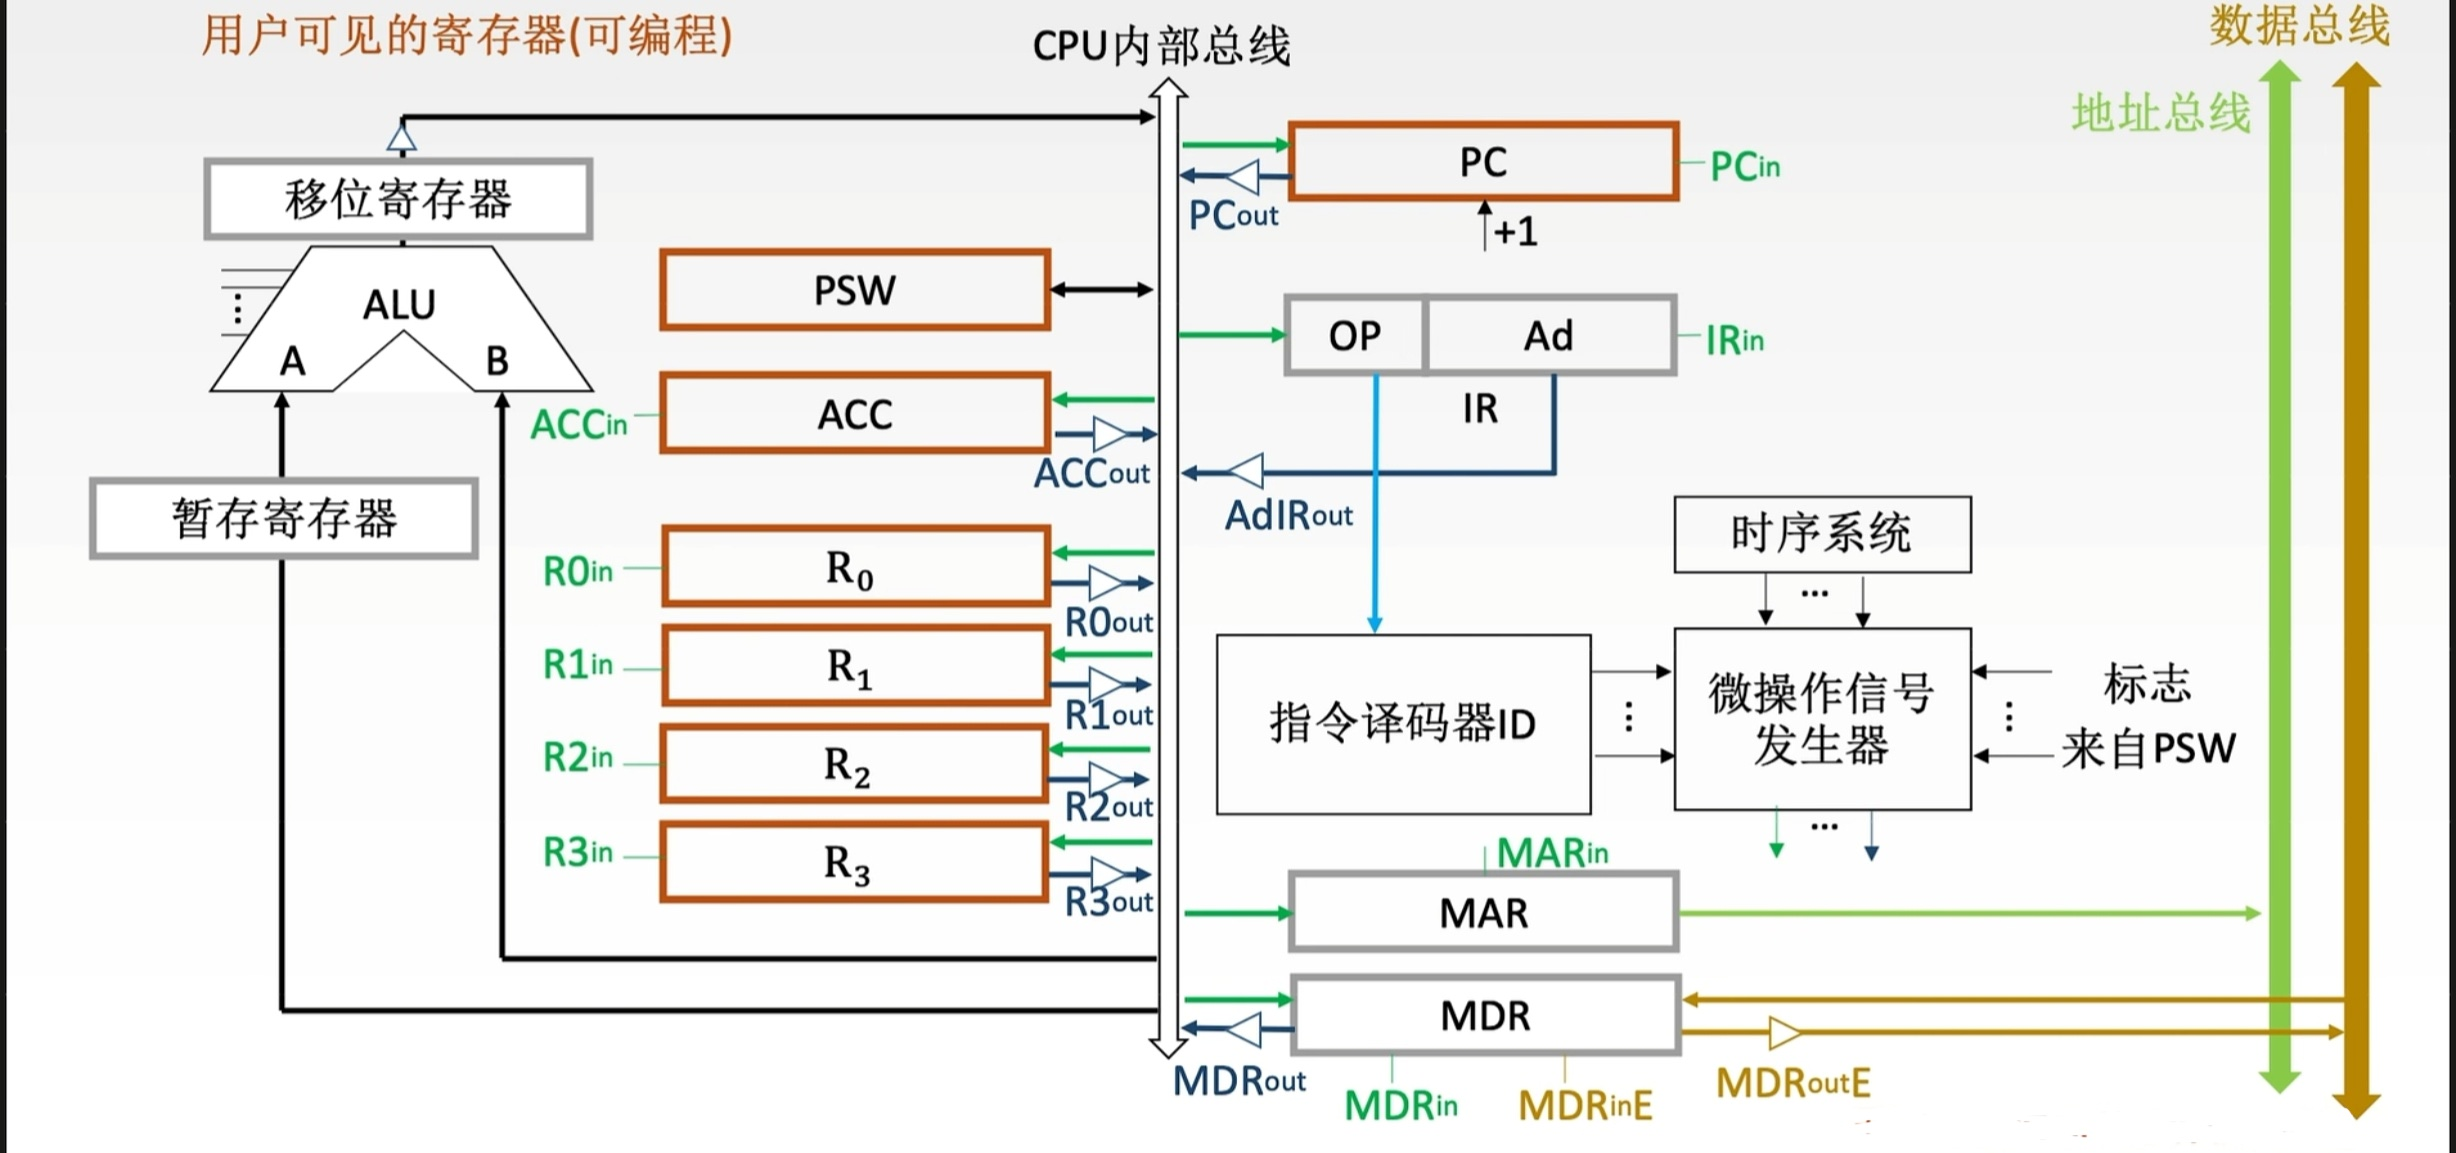
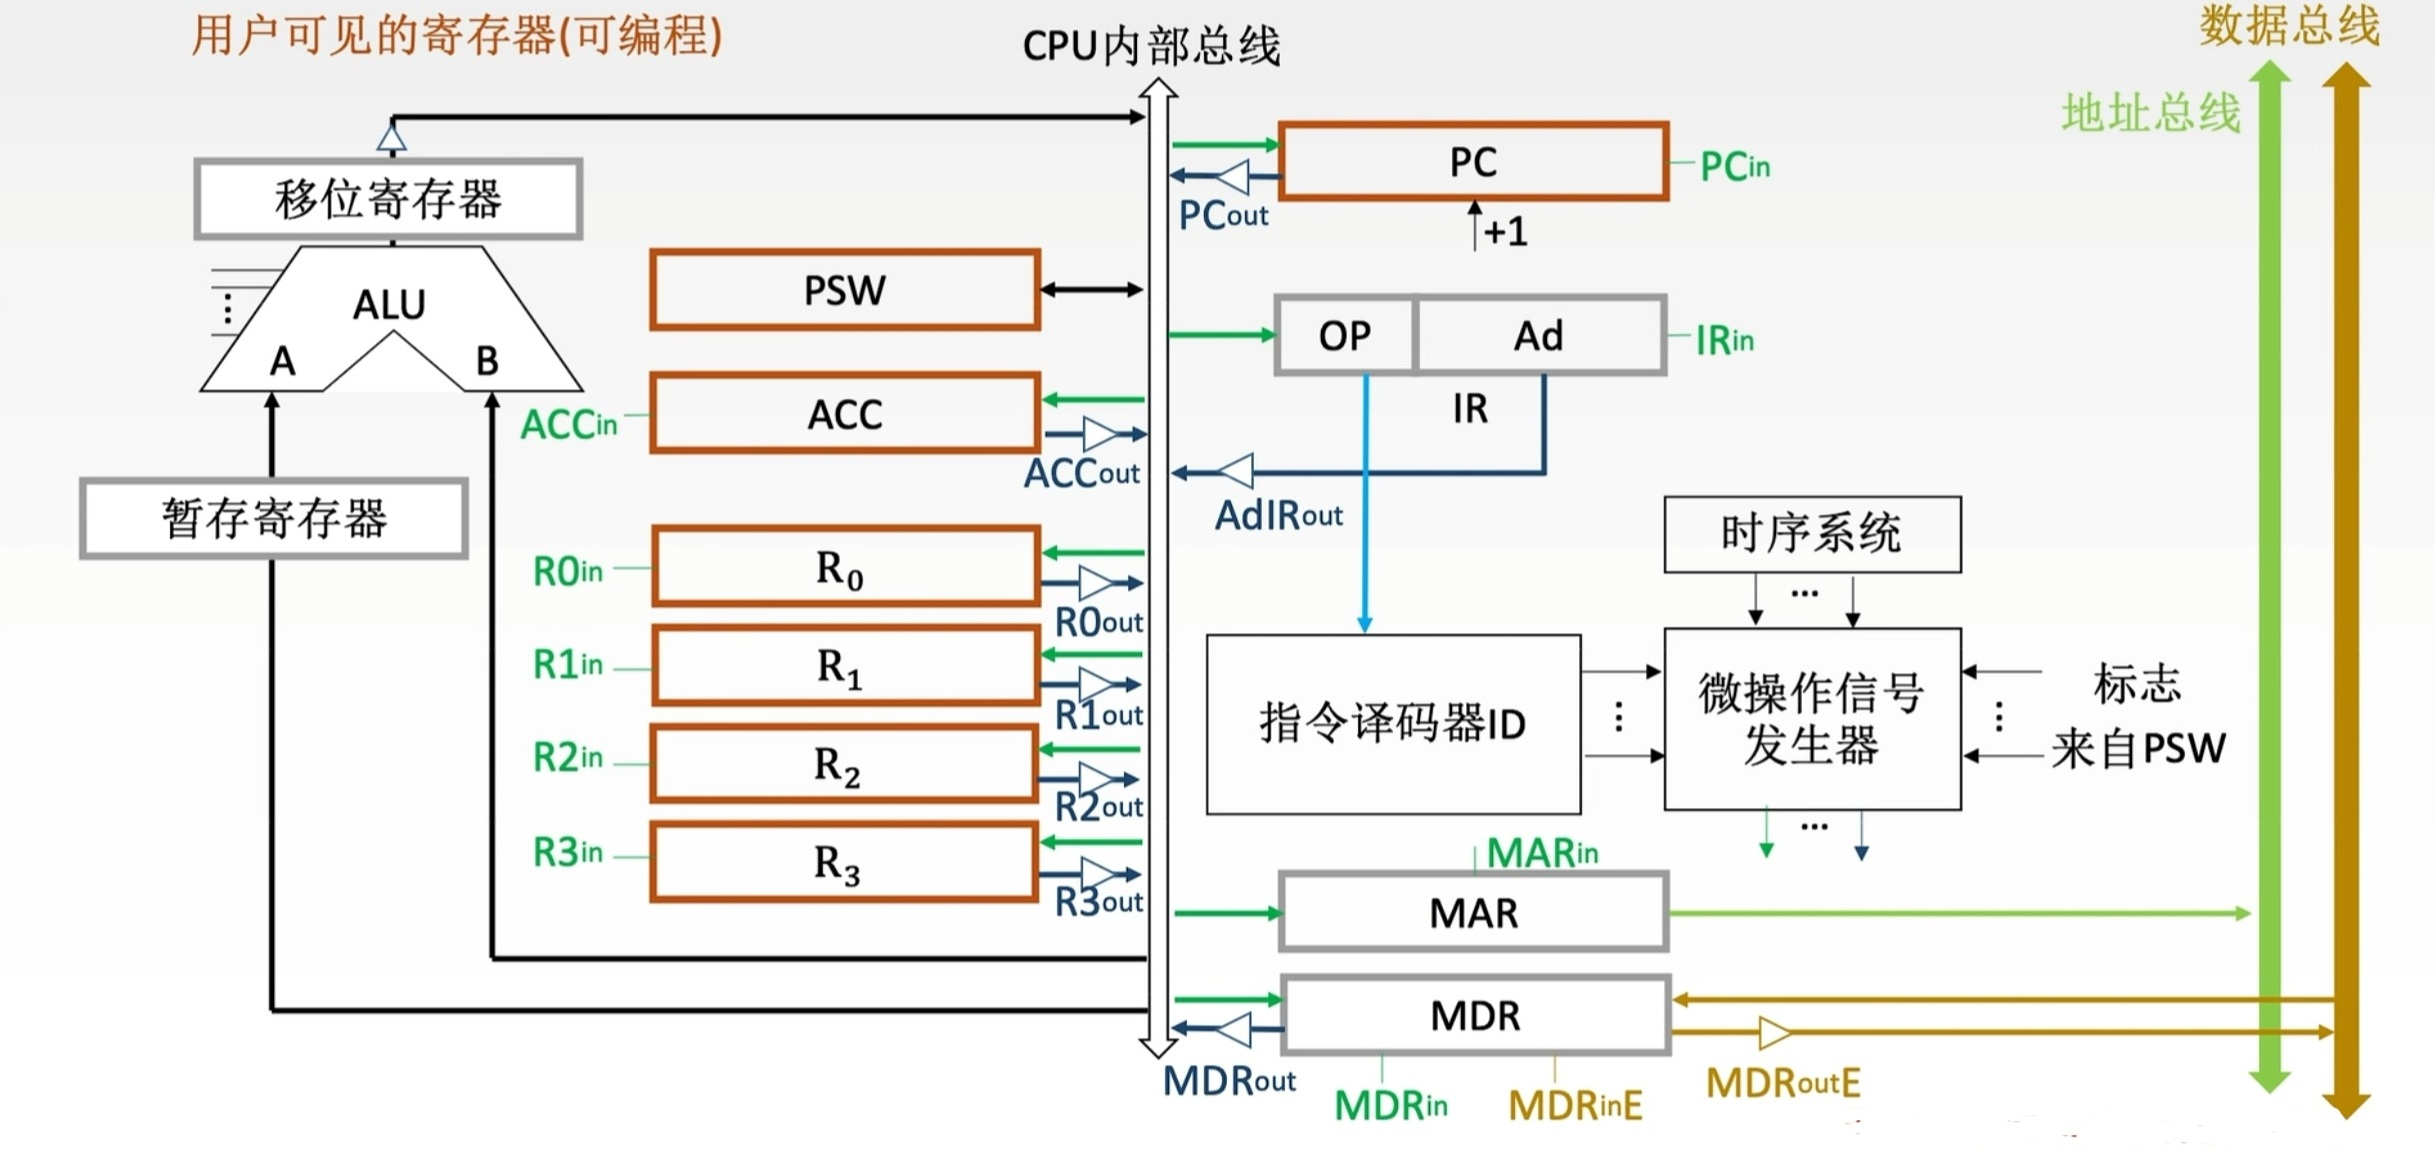
异常中断修改

diff --git a/408复习/计组/第五章-中央处理器.md b/408复习/计组/第五章-中央处理器.md
@@ -145,21 +145,34 @@ n个微命令就需要n位，微指令过长
 - 微程序入口地址，首地址
 - 条件转移
 # 5.5 异常中断
-## 中断基本概念
-- 内中断（也称异常、陷入）
-指令中断（trap指令）；硬件故障（缺页）、软件中断（除0）
-- 外中断（狭义中断）
-外设请求；人工干预
+## 异常和中断基本概念
+### 异常
+也称内中断，CPU内部中发生
+- 自陷（trap）
+预先安排好，指令==正常执行完==触发，处理完成后从==trap指令==下一条指令继续
+如断点测试、单步跟踪
+- 故障（fault）
+指令执行过程中发生
+可恢复的故障（如缺页），重新执行原指令；
+不可恢复的故障（如非法指令、除零），终止进程
+- 终止（abort）
+严重且不可恢复
+如控制器出错、存储器校验错、总线错误
+
+**故障**和**自陷**都是程序性异常（软件中断），**终止**和**中断**属于硬件中断
+### 中断
+也称外中断，一般为外设请求；人工干预
 
 关中断：不允许中断
 	非屏蔽中断：关中断时也被响应（掉电）
 	可屏蔽中断：相反
 开中断：允许
-## 工作流程
+## 中断工作流程
 ### *中断请求*
 每条指令结束==前==向接口发送查询信号，CPU响应是在指令执行结束时刻
 向CPU发送
 ### *中断响应*
+<p style="color:#80a2d3">对于异常，CPU无须响应</p>
 **中断判优**，按优先级处理多个中断信号
 硬件通过硬件排队器（像仲裁）；软件通过查询程序（比硬件慢）
 **优先级设置**
@@ -168,11 +181,11 @@ n个微命令就需要n位，微指令过长
 **指令**：保存原程序pc值（pc已+1）等
 1. ==关中断==
 2. 保存断点
-3. 引出中断服务程序（取程序入口地址并传送给pc）
-中断服务程序返回的是指令执行结束地址
+3. 引出中断服务程序（取程序入口地址并传送给pc），整个过程==硬件实现==
+中断服务程序返回的是下一条指令地址，后续处理由内核软件实现
 #### 单重中断
 **中断服务程序**：
-1. 保护现场，保存寄存器的内容（通用、ACC、PSW）
+1. 保护现场，保存寄存器的内容（通用、ACC）
 2. 中断服务
 3. 恢复现场
 4. 开中断，中断返回

diff --git a/408复习/计组/第七章-输入输出.md b/408复习/计组/第七章-输入输出.md
@@ -1,10 +1,9 @@
 # 7.1 I/O系统基本概念
 1. I/O硬件
 2. I/O软件 通常用I/O指令和通道指令实现主机和I/O设备的信息交换
-I/O指令：CPU指令的一部分 `操作码|命令码|设备码`
-通道指令：通道程序 提前编制好放在主存
+I/O指令：CPU指令的一部分 `操作码|命令码|设备码`，是机器指令
 # 7.2 I/O接口
-又称设备控制器
+又称设备控制器，通过I/O总线与主存和CPU相连
 **I/O端口**：数据缓冲寄存器（数据端口）、控制寄存器（控制端口）、状态寄存器（状态端口）
 数据线——对I/O端口（寄存器）读写数据、状态字、控制字、中断类型号
 地址线——指明I/O端口
@@ -14,18 +13,18 @@ I/O指令：CPU指令的一部分 `操作码|命令码|设备码`
 1. 发命令，到控制端口，CPU向设备发命令
 2. 读状态，从状态端口读取状态字，供CPU检查
 3. 读/写数据，从数据端口发送或读取数据
-## 编制
-### 统一编制
-又称存储器映射方式，根据==地址码==区分内存和I/O设备，I/O地址相对固定，RISC常用
+## 编址
+### 统一编址
+又称存储器映射方式，根据==地址码==区分内存和I/O设备，使用==访存指令==，I/O地址相对固定，RISC常用
 **优点**：
-无需专门的输入输出指令，程序设计灵活性高
+无需专门的I/O指令，程序设计灵活性高
 读写控制逻辑电路简单
 端口编址空间大
 **缺点**：
-占用主存地址
+地址空间共享，占用主存地址（不是在主存，在寄存器I/O端口）
 外设寻址时间长（地址位数多）
-### 独立编制
-又称I/O映射方式，设置==专门==的输入输出==指令==
+### 独立编址
+又称I/O映射方式，设置==专门==的I/O指令
 **优点**：
 程序编制清晰
 地址位数少，译码速度快

diff --git a/README.md b/README.md
@@ -1,16 +1,12 @@
 # CS-NBT-note
 本科专业学科笔记<br>
 文件结构：<br>
-|—— 大二/<br>
-	|—— 大二上/<br>
+|—— 大二上/<br>
+	|—— 物理/<br>
+	|—— Java/<br>
+|—— 大二下/<br>
+	|—— 数据库/<br>
+|—— 408复习/<br>
 		|—— 数据结构/<br>
-		|—— Java/<br>
-		|—— 图片/<br>
-	|—— 大二下/<br>
-		|—— 数据库/<br>
-		|—— 计算机组成原理/<br>
-		|—— img/<br>
-|—— 大三<br>
-	|—— 大三上/<br>
-		|—— 计算机网络结构/<br>
-		|—— 计算机操作系统/<br>
+		|—— 计组/<br>
+		
